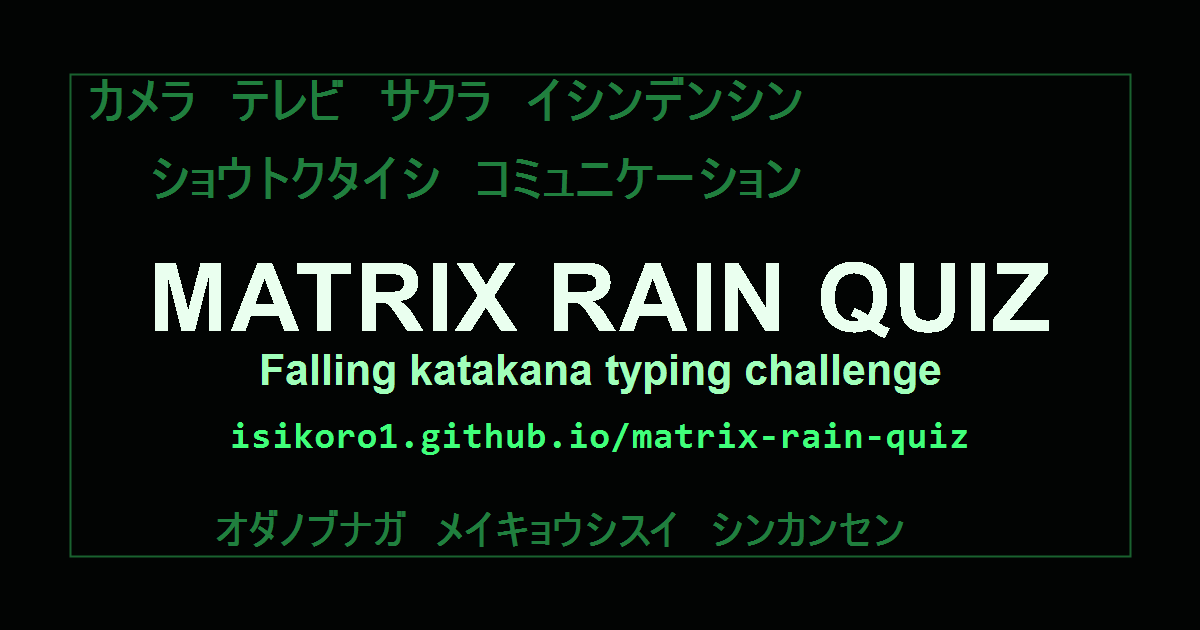
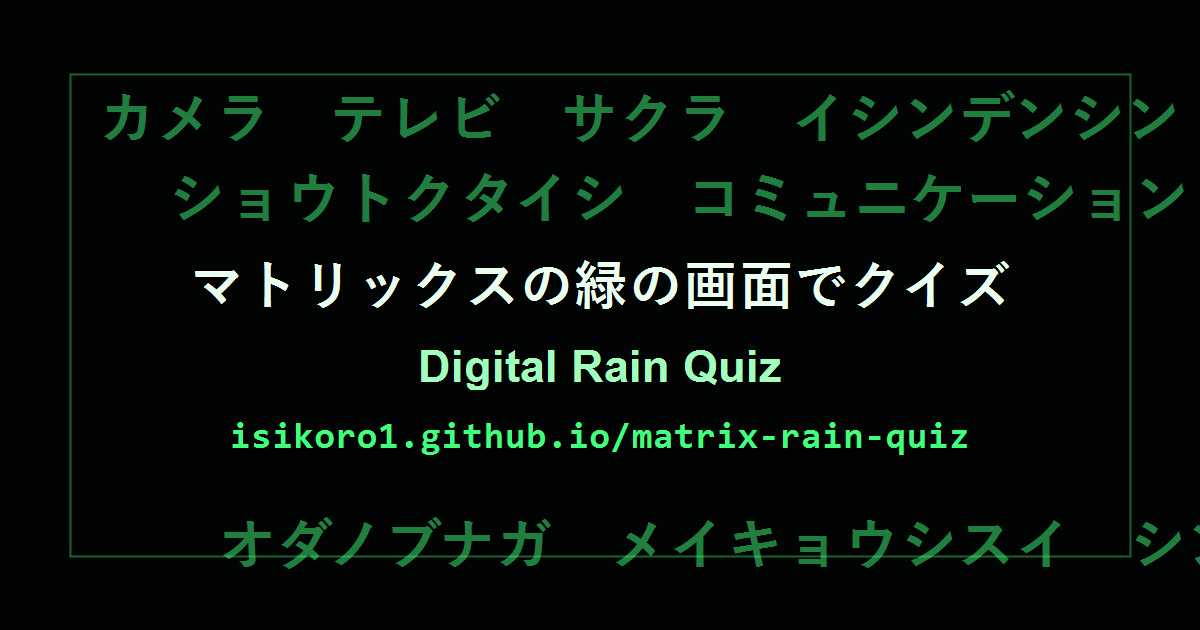
Update title copy and timeout feedback

diff --git a/index.html b/index.html
@@ -1,20 +1,20 @@
 <!doctype html>
-<html lang="en">
+<html lang="ja">
   <head>
     <meta charset="utf-8">
     <meta name="viewport" content="width=device-width, initial-scale=1">
-    <title>MATRIX RAIN QUIZ</title>
-    <meta name="description" content="Falling katakana words appear in digital rain. Read the signal and type the answer before time runs out.">
+    <title>マトリックスの緑の画面でクイズ</title>
+    <meta name="description" content="マトリックスの緑の画面に降ってくるカタカナを読み取るタイピングクイズ。">
     <meta property="og:type" content="website">
     <meta property="og:url" content="https://isikoro1.github.io/matrix-rain-quiz/">
-    <meta property="og:title" content="MATRIX RAIN QUIZ">
-    <meta property="og:description" content="Digital rain に流れるカタカナを読み取るタイピングクイズ。">
+    <meta property="og:title" content="マトリックスの緑の画面でクイズ">
+    <meta property="og:description" content="Digital Rain Quiz。降ってくるカタカナを読み取るタイピングクイズ。">
     <meta property="og:image" content="https://isikoro1.github.io/matrix-rain-quiz/og-image.png">
     <meta name="twitter:card" content="summary_large_image">
-    <meta name="twitter:title" content="MATRIX RAIN QUIZ">
-    <meta name="twitter:description" content="Digital rain に流れるカタカナを読み取るタイピングクイズ。">
+    <meta name="twitter:title" content="マトリックスの緑の画面でクイズ">
+    <meta name="twitter:description" content="Digital Rain Quiz。降ってくるカタカナを読み取るタイピングクイズ。">
     <meta name="twitter:image" content="https://isikoro1.github.io/matrix-rain-quiz/og-image.png">
-    <link rel="stylesheet" href="styles.css?v=4">
+    <link rel="stylesheet" href="styles.css?v=5">
   </head>
   <body>
     <canvas id="rainCanvas" aria-hidden="true"></canvas>
@@ -22,8 +22,8 @@
     <main class="app">
       <section id="titleScreen" class="screen title-screen is-active" aria-label="Title">
         <div class="title-copy">
-          <p class="eyebrow">Digital Rain Decode</p>
-          <h1>MATRIX RAIN QUIZ</h1>
+          <p class="eyebrow">Digital Rain Quiz</p>
+          <h1>マトリックスの緑の画面でクイズ</h1>
         </div>
         <button id="startButton" class="primary-action" type="button">Start</button>
       </section>
@@ -84,14 +84,14 @@
       </section>
     </main>
 
-    <script src="src/utils.js?v=4"></script>
-    <script src="src/scoring.js?v=4"></script>
-    <script src="src/quiz-generator.js?v=4"></script>
-    <script src="src/game-state.js?v=4"></script>
-    <script src="src/rain-engine.js?v=4"></script>
-    <script src="src/renderer.js?v=4"></script>
-    <script src="src/share.js?v=4"></script>
-    <script src="src/storage.js?v=4"></script>
-    <script src="src/main.js?v=4"></script>
+    <script src="src/utils.js?v=5"></script>
+    <script src="src/scoring.js?v=5"></script>
+    <script src="src/quiz-generator.js?v=5"></script>
+    <script src="src/game-state.js?v=5"></script>
+    <script src="src/rain-engine.js?v=5"></script>
+    <script src="src/renderer.js?v=5"></script>
+    <script src="src/share.js?v=5"></script>
+    <script src="src/storage.js?v=5"></script>
+    <script src="src/main.js?v=5"></script>
   </body>
 </html>

diff --git a/src/share.js b/src/share.js
@@ -2,7 +2,7 @@
 const GAME_URL = "https://isikoro1.github.io/matrix-rain-quiz/";
 
 function openXShare(score) {
-  const text = `MATRIX RAIN QUIZで ${score} 点を取りました。\n降ってくるカタカナを読み取るタイピングクイズです。\n#MatrixRainQuiz`;
+  const text = `マトリックスの緑の画面でクイズで ${score} 点を取りました。\nDigital Rain Quiz\n#MatrixRainQuiz`;
   const params = new URLSearchParams({
     text,
     url: GAME_URL,

diff --git a/styles.css b/styles.css
@@ -91,9 +91,8 @@ p {
 h1 {
   max-width: 760px;
   margin-bottom: 0;
-  font-size: clamp(3.2rem, 12vw, 7rem);
-  line-height: 0.88;
-  text-transform: uppercase;
+  font-size: clamp(2.6rem, 9vw, 5.6rem);
+  line-height: 1;
   text-shadow: 0 0 24px rgba(64, 255, 122, 0.44);
 }
 
@@ -362,7 +361,7 @@ button:focus-visible {
   }
 
   h1 {
-    font-size: clamp(3.1rem, 18vw, 4.8rem);
+    font-size: clamp(2.45rem, 14vw, 4.2rem);
   }
 
   .game-hud {

diff --git a/src/main.js b/src/main.js
@@ -129,7 +129,9 @@ function nextQuestion(message, tone = "", lengthDelta = 0) {
 }
 
 function handleTimeout() {
-  nextQuestion("Time up. Length down.", "warn", -1);
+  const question = currentQuestion(state);
+  const answer = question ? ` Answer: ${question.answer}` : "";
+  nextQuestion(`Time up.${answer}`, "warn", -1);
 }
 
 function tick() {
